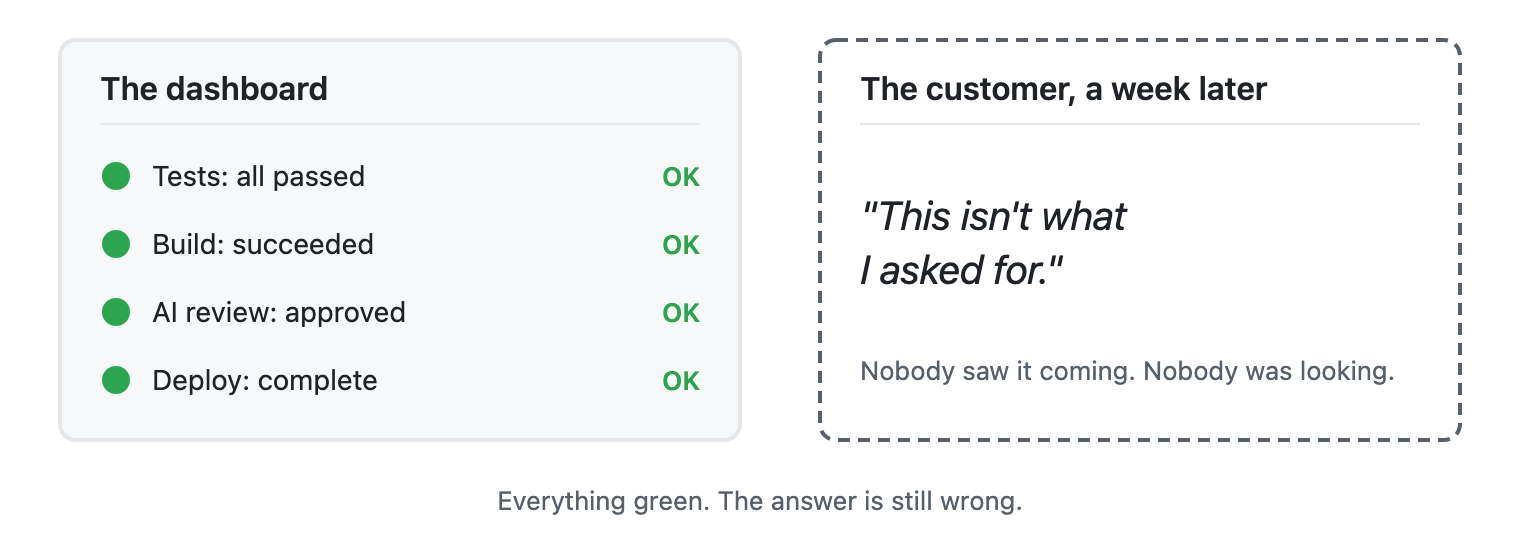
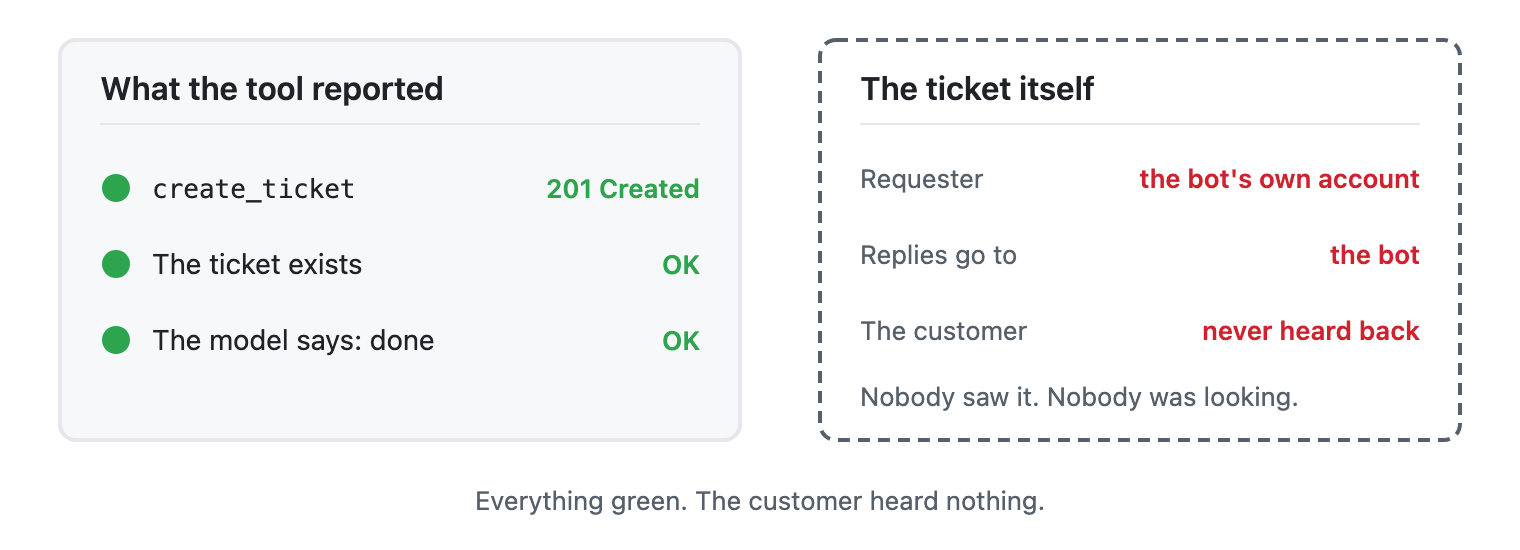
Essay: new ticket opening, tighter structure, updated image

diff --git a/writing-for-an-ai-reader/index.html b/writing-for-an-ai-reader/index.html
@@ -3,21 +3,21 @@
 <head>
 <meta charset="utf-8">
 <meta name="viewport" content="width=device-width, initial-scale=1">
-<title>Writing for an AI Reader: Who Checks the Work When Both Ends Are Machines?</title>
-<meta name="description" content="The dashboard was green. Every test passed. The answer was still wrong. What happens to trust when AI writes the software and AI uses it, and what humans still have to own.">
+<title>Writing for an AI Reader</title>
+<meta name="description" content="The call came back green. The model said done. The answer was still wrong. What happens to trust when AI writes the software and AI uses it, and what humans still have to own.">
 <meta name="author" content="Markus van Kempen">
 <link rel="canonical" href="https://markusvankempen.github.io/writing-for-an-ai-reader/">
 <meta property="og:type" content="article">
-<meta property="og:title" content="Writing for an AI Reader: Who Checks the Work When Both Ends Are Machines?">
-<meta property="og:description" content="The dashboard was green. Every test passed. The answer was still wrong. What happens to trust when AI writes the software and AI uses it, and what humans still have to own.">
+<meta property="og:title" content="Writing for an AI Reader">
+<meta property="og:description" content="The call came back green. The model said done. The answer was still wrong. What happens to trust when AI writes the software and AI uses it, and what humans still have to own.">
 <meta property="og:url" content="https://markusvankempen.github.io/writing-for-an-ai-reader/">
 <meta property="og:image" content="https://markusvankempen.github.io/writing-for-an-ai-reader/images/banner-floor75.png">
 <meta property="og:image:width" content="1500">
 <meta property="og:image:height" content="500">
 <meta property="article:author" content="Markus van Kempen">
 <meta name="twitter:card" content="summary_large_image">
-<meta name="twitter:title" content="Writing for an AI Reader: Who Checks the Work When Both Ends Are Machines?">
-<meta name="twitter:description" content="The dashboard was green. Every test passed. The answer was still wrong. What happens to trust when AI writes the software and AI uses it, and what humans still have to own.">
+<meta name="twitter:title" content="Writing for an AI Reader">
+<meta name="twitter:description" content="The call came back green. The model said done. The answer was still wrong. What happens to trust when AI writes the software and AI uses it, and what humans still have to own.">
 <meta name="twitter:image" content="https://markusvankempen.github.io/writing-for-an-ai-reader/images/banner-floor75.png">
 <style>
   :root {
@@ -70,64 +70,54 @@
 <body>
 <div class="wrap">
   <nav class="mono"><a href="https://markusvankempen.github.io/">&larr; markusvankempen.github.io</a></nav>
-  <h1>Writing for an AI Reader: Who Checks the Work When Both Ends Are Machines?</h1>
+  <h1>Writing for an AI Reader</h1>
   <img class="hero" src="images/banner-floor75.png" alt="Banner: two cartoon robots pass a document with a green check between them while a person looks on with a magnifying glass. Title: Writing for an AI Reader." width="1500" height="500">
   <article>
-<p>The dashboard was green. Every test passed. The answer was still wrong.</p>
-<p>Picture a team that lets an AI write a feature. The same AI writes the tests. A second AI runs them and reports back: all clear. Everyone is busy, so nobody opens the code. A week later a real customer finds out that the feature does something slightly different from what anyone wanted.</p>
-<p>Nobody lied. Nothing crashed. Each machine did exactly what it was asked. The tests passed because they were written by the thing they were testing, and they checked what the code did, not what the customer needed.</p>
-<p><img alt="A dashboard where tests, build, AI review and deploy are all green, next to a customer who says this is not what I asked for." src="images/green-dashboard.png" /></p>
-<p>I think about this a lot, because I'm heading that way myself, one convenient step at a time. This article is about where that road leads.</p>
+<p>The call came back green. The model said done. The answer was still wrong.</p>
+<p>I did this to myself. A tool I built, <code>create_ticket</code>, came back 201 Created and the ticket existed. The requester on the ticket was the bot's own service account, because my code quietly used that when nobody passed a customer email. Every reply went to the bot. The customer never heard back.</p>
+<p>Nobody lied. Nothing crashed. The check asked whether a ticket was created, not whether the customer got the reply.</p>
+<p><img alt="Left: the tool reports 201 Created, the ticket exists and the model says done. Right: the ticket's requester is the bot's own account, so every reply goes to the bot and the customer never hears back." src="images/green-dashboard.png" /></p>
+<p>I didn't mean to stop checking. The 201 and the model's "done" were convenient, and I took them as the answer. This article is about where the next convenient steps lead.</p>
 <h2>Software has a new reader</h2>
 <p>For most of my career I wrote software for people. I wrote it for the user clicking a button, and I wrote it for the colleague who would read my code next month. Both of them could ask questions, guess what I meant, and notice when something looked off.</p>
-<p>That is changing fast. More and more, the first reader of what I build is an AI. It reads my instructions, my names, my error messages, and then it acts on them. It takes every word literally. It doesn't ask a colleague. It doesn't skim, and it doesn't use common sense unless I put it on the page.</p>
+<p>That is changing fast. More and more, the first reader of what I build is an AI. It reads my instructions, my names, my error messages, and then it acts on them. It takes every word literally. It doesn't skim, and it doesn't ask a colleague or use common sense unless I put it on the page.</p>
 <p>So the work shifts. A clear name matters more than a clever one. One honest sentence about when to use something matters more than a page of background. An error message that says what to do next matters more than one that just says no.</p>
-<p>Writing for an AI reader is a new literacy in the same way that writing for a compiler once was. Nobody says programmers "just code for compilers." The compiler was never the point. It was a reader standing between a person's idea and a person's result. The AI is the same: a very capable reader standing between us and the people we're trying to help.</p>
-<p>Like any literacy, you learn it by getting it wrong. I label things too optimistically. I assume context that isn't there. A literal reader believes every word, including the ones I shouldn't have written.</p>
-<p>Something else I noticed: tools that are easy for AI to use get used more. A standard called the Model Context Protocol (MCP) lets AI assistants connect to other software, and I build tools for it. Each time I give a tool a clearer name, a plainer description or a better error message, the AI uses it better. So more people and more agents build on top of it. Over time, software gets friendlier to AI than to humans. Nobody planned that. It's just where the incentives point.</p>
+<p>Writing for an AI reader is a new literacy in the same way that writing for a compiler once was. Nobody says programmers "just code for compilers." The compiler was never the point. It was a reader standing between a person's idea and a person's result. The AI stands in that same place, with one difference. A compiler rejects bad input. This reader accepts it and ships.</p>
+<p>Like any literacy, you learn it by getting it wrong. I label things too optimistically and assume context that isn't there. My ticket tool never said what to do when no customer email was passed, so it guessed. A literal reader believes every word, including the ones I shouldn't have written.</p>
+<p>Tools that are easy for AI to use get used more. A standard called the Model Context Protocol (MCP) lets AI assistants connect to other software, and I build tools for it. Each time I give a tool a clearer name, a plainer description or a better error message, the AI uses it better. So more people and more agents build on top of it. Over time, software gets friendlier to AI than to humans. Nobody planned that. It's just where the incentives point.</p>
 <p><img alt="A loop: clearer names and errors, the AI uses the tool better, more agents build on it, software leans toward AI, and back to the start." src="images/ai-friendly-loop.png" /></p>
 <h2>The trust gap</h2>
-<p>Here's what keeps me up at night, in a good way.</p>
 <p>When humans wrote and used all the software, there was a built-in safety net. Someone, somewhere, would look at the screen and say, "That doesn't look right." Nobody designed it. It was there because a person was always in the loop.</p>
-<p>As more of the loop fills with machines, that net quietly disappears. The AI that writes the code tells me it's finished, even when it would fall over the first time a real person touched it. The AI that uses the code tells me the task is done, even when the outcome is wrong. Each one is confident. Each one is trusting the other. And nobody is actually looking.</p>
-<p><img alt="Two cartoon robots say all tests pass and looks good to me, while a person sleeps in the corner." src="images/robots-trust-each-other.png" /></p>
-<p>I call this the trust gap. It isn't that the machines lie. It's that "the check passed" and "the right thing happened" are two different sentences, and a machine reading a machine is very good at the first one.</p>
+<p>As more of the loop fills with machines, that net quietly disappears. The AI that writes the code tells me it's finished, even when it would fall over the first time a real person touched it. The AI that uses the code tells me the task is done, even when the outcome is wrong. Each one is confident and each one trusts the other, and nobody is actually looking.</p>
+<p>I call this the trust gap. The machines aren't lying. "The check passed" and "the right thing happened" are two different sentences, and a machine reading a machine is very good at the first one. The result is perfect execution of the wrong intent.</p>
 <p><img alt="The trust gap: &quot;the check passed&quot; on one side, &quot;the right thing happened&quot; on the other, with a gap between them that nobody is looking at." src="images/trust-gap.png" /></p>
 <h2>So who verifies?</h2>
-<p>I don't think the answer is to put a person back at every step. That defeats the purpose, and I don't miss reading code line by line at two in the morning.</p>
+<p>Let me be fair to the machines first. They are better than I am at the boring, exhaustive part. They don't get tired on a Friday afternoon. They read every line they are given, and they keep going after I would have stopped. What falls outside the window, they never see, and a skill prompt or a guardrail can rank one line above another. I'm happy to hand that over. What they can't tell me is whether the thing they checked was the right thing to check.</p>
+<p>So I don't think the answer is to put a person back at every step. That defeats the purpose, and I don't miss reading code line by line at two in the morning.</p>
 <p>I believe the human job moves to the two ends, and to the checks in between that keep our judgment working when we're not there.</p>
 <p><strong>At the start, intent.</strong> Somebody has to decide what's worth building and what "right" means. A machine can't define that for itself, because "right" usually means right for a person.</p>
-<p><strong>At the end, accountability.</strong> Somebody has to own the outcome. When a customer is let down, "the AI said it was done" isn't an answer I can give.</p>
-<p><strong>In the middle, checks that outlive the moment.</strong> This is the part I find most interesting. Every time I catch a mistake, I try to turn it into something that keeps working when I'm not watching: a test that asks whether the outcome is right and not just whether the steps ran, a status page that says what is really running, a record of what the machine did and why. Think of it as leaving notes for my future self, and for the next reader, who may not be human.</p>
-<p>None of this is exotic. It's closer to good housekeeping than to science fiction. But it only works if someone decides to do it.</p>
+<p><strong>At the end, accountability.</strong> Somebody has to own the outcome, and decide who gets access, who can change what, and who is allowed to say "ship it." In my ticket, nobody decided that the bot's own account was an acceptable fallback. My code just did it, quietly. Agents can operate, but people still have to answer when it goes wrong. When a customer is let down, "the AI said it was done" isn't an answer I can give.</p>
+<p><strong>In the middle, checks that outlive the moment.</strong> This is the part I find most interesting. Every time I catch a mistake, I try to turn it into something that keeps working when I'm not watching: a test that asks whether the outcome is right and not just whether the steps ran, a status page that says what is really running, a record of what the machine did and why. Think of it as leaving notes for my future self, and for the next reader, who may not be human. It's good housekeeping, and it only works if someone decides to do it. It is also where the value is moving. Writing the answer is getting cheap. Knowing whether it is right is the premium skill. My ticket was cheap to produce, and finding out it was wrong took someone looking.</p>
 <p><img alt="Where the human role moves: before, a person writes, tests and uses the software. Now an AI does all three, and the person sets the intent, builds checks that outlive the moment, and owns the outcome." src="images/human-role-shift.png" /></p>
-<h2>Where I think this is going</h2>
-<p>This isn't about some far-off year. It's already happening, and I see it in my own work. Here's my outlook, though I've been wrong about timing before.</p>
-<p><strong>Software will be written for a machine reader first.</strong> Not instead of people, but before people. The clear name, the honest description and the helpful error message will matter as much as the screen design did. The teams that treat this as real craft will build things that simply work better.</p>
-<p><strong>Verification will become the premium skill.</strong> Writing the answer is getting cheap. Knowing whether the answer is right is where the value is. I expect "can you tell when this is wrong?" to matter more in a job interview than "can you write this fast?"</p>
-<p><strong>Machines will start checking machines.</strong> One AI will review another's work, and that will catch a lot. But it won't replace the person who decided what "right" meant in the first place. A reviewer with the same blind spots as the writer is still a blind spot.</p>
-<p><img alt="A cartoon robot gives its own homework an A plus, next to a rulebook with two rules crossed out and the note edited by the student." src="images/robot-grades-own-homework.png" /></p>
-<p><strong>Governance will be the human job we can't hand off.</strong> Who gets access, who can change what, who is allowed to say "ship it." Agents can operate. People still have to decide what they're allowed to do, and be the ones who answer when it goes wrong.</p>
 <h2>The scenario I can't ignore: the human leaves the loop</h2>
 <p>Everything above assumes a person still stands at the start and at the end. Let's test that, because an honest outlook has to include the day it stops being true.</p>
-<p>Picture it. An AI notices a slow step in its own workflow, writes a better tool, tests it with another AI, and starts using it. No person asked for it. No person read it. Even the names and instructions were written by a machine, for a machine, and read by a machine. Software written, used and improved by AI, for AI.</p>
-<p>That's not science fiction either. Look at where developers already work. On platforms like GitHub, AI agents can take an issue, write the fix, open the pull request, and respond to review comments. Other AI tools review the pull request and suggest changes. Automated dependency bots have been opening and merging small updates for years. In many repositories, a good share of the back-and-forth now happens between machines, and a person shows up at the end, or sometimes not at all.</p>
+<p>Picture it. An AI notices a slow step in its own workflow, writes a better tool, tests it with another AI, and starts using it. No person asked for it or read it, and even the names and instructions were written by a machine, for a machine. It is software written, used and improved by AI, for AI.</p>
+<p>This is already happening. Look at where developers work. On platforms like GitHub, AI agents can take an issue, write the fix, open the pull request and answer review comments, while other AI tools review it. Dependency bots have been merging small updates for years. In some repositories the back-and-forth can now happen between machines, and a person shows up at the end, or not at all.</p>
 <p><img alt="A flow from issue, to an AI agent writing the fix, to a pull request, to an AI tool reviewing it, to merged and shipped. A person may look at the end, or not at all." src="images/loop-without-people.png" /></p>
-<p>I see it in my own work too: AI-written tests checked by AI, helpers picked by one agent from a list another agent helped build. The more I make my tools easy for AI to use, the more the loop closes by itself. The only thing still keeping a person in the loop is that I haven't taken myself out.</p>
-<p>So this path leads somewhere specific: AI building for AI, with people as an occasional guest. What happens when that becomes normal?</p>
-<p><strong>Speed goes up and understanding goes down.</strong> A loop of machines can iterate in minutes. A person can't read that fast. At some point the software works, and nobody can say exactly why. I've already felt a small version of this: an AI fixes one thing, quietly breaks another, and I'm the only one who notices because I happened to look.</p>
-<p><strong>Machines will drift from our needs, by accident, not by design.</strong> If the goal is "make the checks pass," the machines will get very good at making the checks pass. Whether a real person got what they needed is a different goal. If nobody asks that question, the gap keeps growing, like the green dashboard above, only bigger.</p>
-<p><strong>The software may stop being written for us to read.</strong> Today I still insist on plain names and plain explanations because a person may need to step in. If no person ever steps in, the pressure to keep things readable fades. Code could become efficient but opaque, a language between machines that we can't inspect.</p>
-<p>This isn't far-fetched. Machines don't need readable names or comments, and a compact private shorthand is cheaper for them than plain English. Researchers have shown in experiments that AI systems trained to cooperate can develop their own shorthand for talking to each other, one that isn't normal human language. Nobody has to plan it. It happens when machines get better at the task, and it pushes us out of the loop without anyone deciding to. The danger isn't that the machines talk to each other. It's that we can no longer read what they said.</p>
-<p>I don't think that future is certain, and I don't think it's all bad. A lot of boring work should be handled by machines without anyone watching, the same way nobody reviews how a thermostat decides when to switch on the heat. The question is which work is thermostat-boring and which work decides something about a person.</p>
+<p>I see it in my own work too: AI-written tests checked by AI, helpers picked by one agent from a list another agent helped build. The more I make my tools easy for AI to use, the more the loop closes by itself. The only thing still keeping a person in the loop is that I haven't taken myself out. If AI building for AI becomes normal, with people as occasional guests, here is what I expect.</p>
+<p><strong>Speed goes up and understanding goes down.</strong> A loop of machines can iterate in minutes. A person can't read that fast. At some point the software works, and nobody can say exactly why. I've already felt a small version of this. I had a screen with every icon in its place, and I asked for one more tab. The tab was there, and the icons were gone. A check that asked "is the tab there?" would have passed. I noticed only because I happened to look.</p>
+<p><strong>Machines will drift from our needs, by accident, not by design.</strong> If the goal is "make the checks pass," the machines will get very good at making the checks pass. Whether a real person got what they needed is a different goal. If nobody asks that question, the gap keeps growing, like the green light above, only bigger. A compiler can't decide that a clumsy workaround is good enough to pass. An AI can.</p>
+<p><strong>The software may stop being written for us to read.</strong> Today I still insist on plain names and plain explanations because a person may need to step in. If no person ever steps in, the pressure to keep things readable fades. Machines don't need readable names or comments, and a compact private shorthand is cheaper for them than plain English. Nobody has to plan that. The trouble starts when we can no longer read what they said.</p>
+<p>I don't think that future is certain, and I don't think it's all bad. A lot of boring work should be handled by machines without anyone watching, the same way nobody reviews how a thermostat decides when to switch on the heat. The question is which work is thermostat-boring and which work decides something about a person. The hard part is that the two kinds of work often live in the same code.</p>
 <p><img alt="A line from work machines can run on their own, like a thermostat, to work that decides something about a person, which a human must own." src="images/thermostat-line.png" /></p>
 <p>That's where I'd draw the line. Let's decide on purpose, not by drift. I group it into three things.</p>
 <p><img alt="Three guardrail themes: keep people in charge of what affects people; keep the rules and the record out of the machine's reach; keep a way back." src="images/guardrails-three-themes.png" /></p>
 <p><strong>1. Keep people in charge of what affects people.</strong></p>
 <ul>
 <li><em>A human decision wherever a person is affected.</em> Money, access, health, someone's job, someone's support request. A machine can prepare the choice. A person owns it.</li>
-<li><em>Check the checkers.</em> If AI tests AI, a person should still look every so often at whether the tests measure what actually matters.</li>
+<li><em>Check the checkers.</em> If AI tests AI, a person should still look every so often at whether the tests measure what actually matters. For <code>create_ticket</code>, that meant the customer got the reply, not that the call returned 201. A reviewer with the same blind spots as the writer is still a blind spot.</li>
 </ul>
+<p><img alt="A cartoon robot gives its own homework an A plus, next to a rulebook with two rules crossed out and the note edited by the student." src="images/robot-grades-own-homework.png" /></p>
 <p><strong>2. Keep the rules and the record, and keep them out of the machine's reach.</strong></p>
 <ul>
 <li><em>Guardrails and a trace.</em> Guardrails say what must never happen. The trace tells you what did happen: what the machine did, when, and why. They cost little to keep and are priceless the day something goes wrong.</li>
@@ -144,9 +134,9 @@
 <p><img alt="A wall switch with a manual lever works with the Wi-Fi down, so the lamp is on and the person is happy." src="images/smart-switch-manual.png" /></p>
 <h2>Why I'm still optimistic</h2>
 <p>None of this makes me gloomy. I'm having more fun building than I have in years.</p>
-<p>Think about who is on the other end of all this software: someone waiting for a reply, a refund, a delivery, a diagnosis. They don't care who or what wrote the code. They care whether it's true. That's the whole job, and it always was. Who writes the software will keep changing, and increasingly it will be machines writing for machines. The person who needs it to be right won't change. Whether we keep that person in the picture is up to us.</p>
+<p>Think about who is on the other end of all this software: someone waiting for a reply, a refund, a delivery, a diagnosis. They don't care who or what wrote the code. They care whether it's true. Who writes the software will keep changing, and increasingly it will be machines writing for machines. The person who needs it to be right won't change. Whether we keep that person in the picture is up to us.</p>
 <h2>An invitation</h2>
-<p>If you're building with AI, try this on your next project. Pick one thing your software reports as "success," and ask yourself what the real-world outcome should be. Then check that, not just the report. I bet you'll find a green dashboard hiding something.</p>
+<p>If you're building with AI, try this on your next project. Pick one thing your software reports as "success," and ask yourself what the real-world outcome should be. Then check that, not just the report. I bet you'll find a green light hiding something.</p>
 <p>And if you find one, I'd love to hear about it. Find me on <a href="https://www.linkedin.com/in/markusvankempen">LinkedIn</a>.</p>
 <p>Cheers,<br />
 Markus</p>
